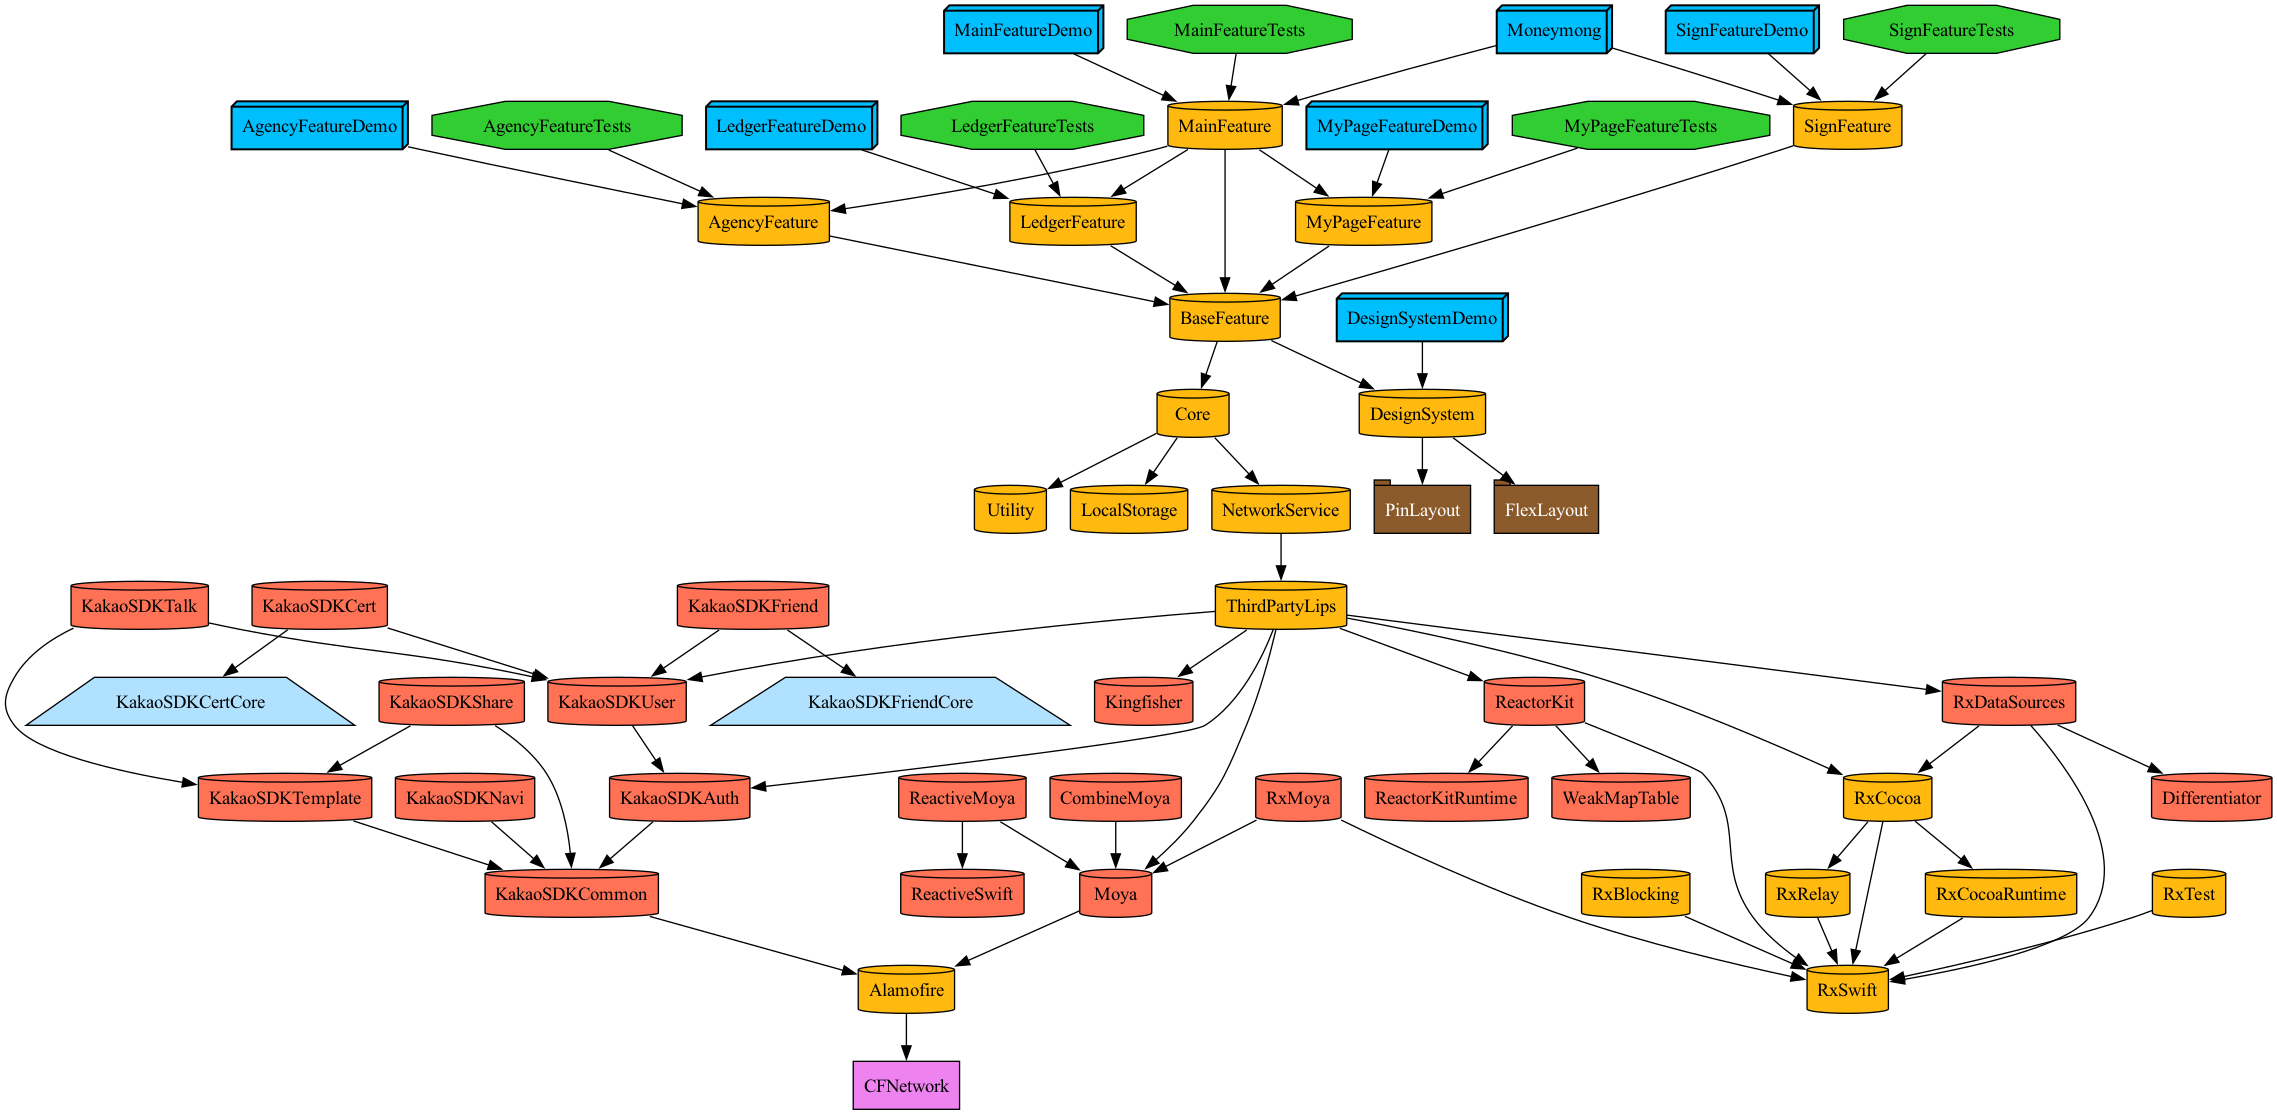
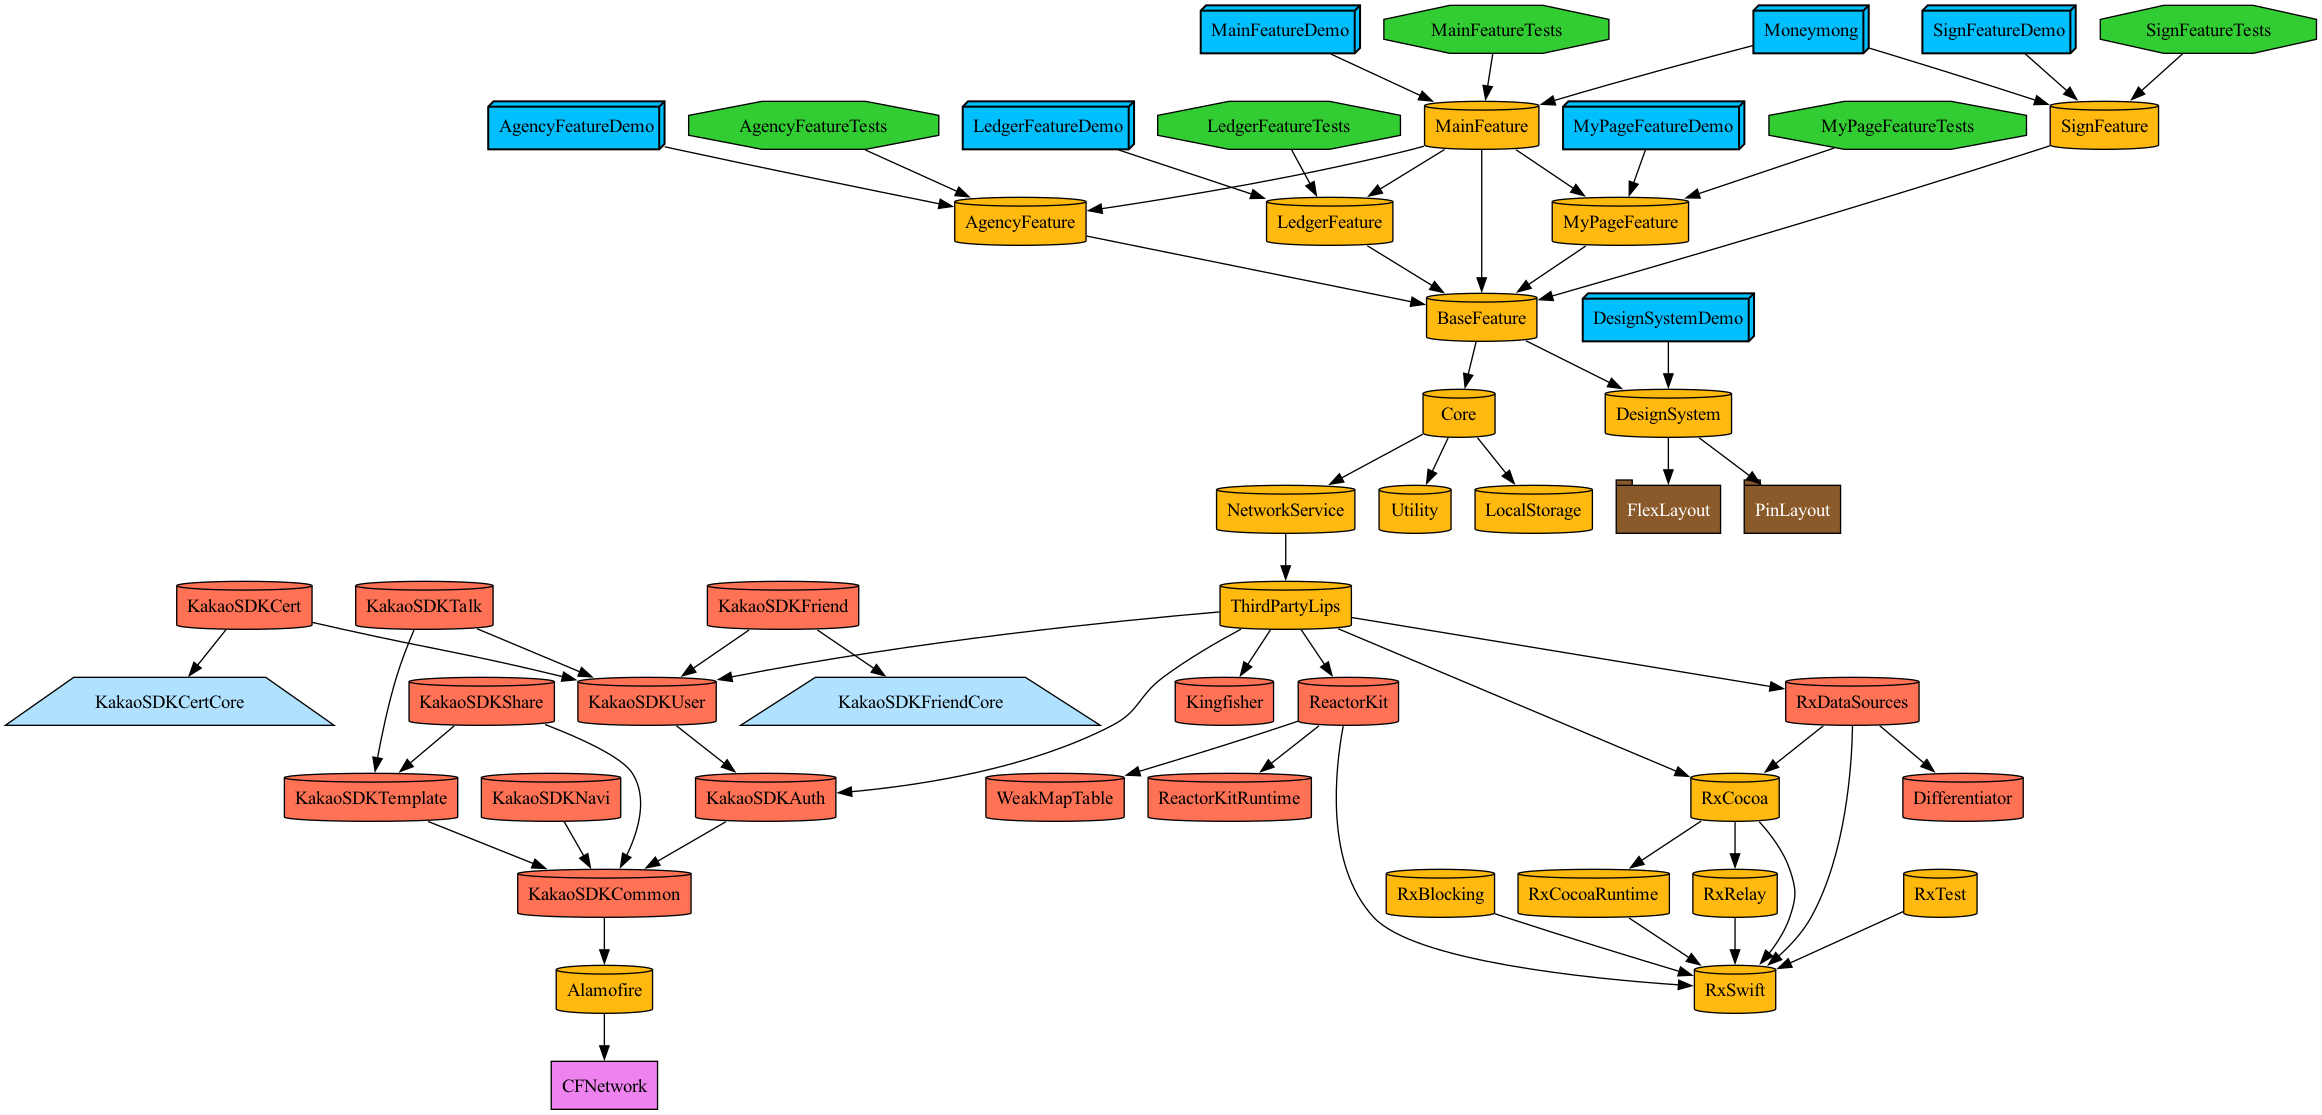
feat: Moya -> Alamofire 대체및 적용
(cherry picked from commit 4c379efed419bace5495fcf24f695d3409dfb195)

# Conflicts:
#	Projects/Core/Network/Sources/Moya+.swift

diff --git a/Projects/Core/Network/Sources/Common/TargetType.swift b/Projects/Core/Network/Sources/Common/TargetType.swift
@@ -1,0 +1,55 @@
+import Foundation
+
+import Alamofire
+
+public enum HTTPTask {
+  case plain
+  case requestJSONEncodable(Encodable)
+  case upload(MultipartFormData)
+}
+
+public protocol TargetType: URLRequestConvertible {
+  var baseURL: URL? { get }
+  var path: String { get }
+  var method: HTTPMethod { get }
+  var task: HTTPTask { get }
+  var headers: [String: String]? { get }
+}
+
+extension TargetType {
+  func asURLRequest() throws -> URLRequest {
+    guard let encodedPath = path
+      .addingPercentEncoding(withAllowedCharacters: CharacterSet.urlQueryAllowed)
+    else {
+      debugPrint("잘못된 URL")
+      let urlError = AFError.createURLRequestFailed(error: URLError(.badURL))
+      throw MoneyMongError.networkError(AFerror: urlError)
+    }
+
+    guard let fullURL = baseURL?
+      .appendingPathComponent(encodedPath)
+      .absoluteString
+      .removingPercentEncoding
+    else {
+      debugPrint("잘못된 URL")
+      let urlError = AFError.createURLRequestFailed(error: URLError(.badURL))
+      throw MoneyMongError.networkError(AFerror: urlError)
+    }
+
+    var urlRequest = try URLRequest(url: fullURL, method: method)
+    urlRequest.allHTTPHeaderFields = headers
+
+    switch task {
+    case .plain:
+      break
+
+    case let .requestJSONEncodable(params):
+      urlRequest.httpBody = try! JSONEncoder().encode(params)
+
+    case let .upload(multipartFormData):
+      break
+    }
+
+    return urlRequest
+  }
+}

diff --git a/Projects/Core/Network/Sources/APIs/SignAPI/Repository/SignRepository.swift b/Projects/Core/Network/Sources/APIs/SignAPI/Repository/SignRepository.swift
@@ -1,0 +1,22 @@
+import Foundation
+import Alamofire
+
+public protocol SignRepositoryInterface {
+  func sign(provider: String, accessToken: String) async throws -> SignInfo
+}
+
+public final class SignRepository: SignRepositoryInterface {
+  private let networkManager: NetworkManagerInterfacae
+
+  public init(networkManager: NetworkManagerInterfacae = NetworkManager()) {
+    self.networkManager = networkManager
+  }
+
+  public func sign(provider: String, accessToken: String) async throws -> SignInfo {
+    let request = SignRequestDTO(provider: provider, accessToken: accessToken)
+    let targetType = SignAPI.sign(request)
+    let dto = try await networkManager.request(target: targetType, of: GenericResponse<SignResponseDTO>.self)
+
+    return dto.toEntity
+  }
+}

diff --git a/Projects/Core/Network/Sources/APIs/SignAPI/ResponseDTO/SignResponseDTO.swift b/Projects/Core/Network/Sources/APIs/SignAPI/ResponseDTO/SignResponseDTO.swift
@@ -1,0 +1,22 @@
+public struct SignResponseDTO: Responsable {
+  public let accessToken: String?
+  public let refreshToken: String?
+  public let loginSuccess: Bool?
+  public let schoolInfoExist: Bool?
+
+  public init(accessToken: String?, refreshToken: String?, loginSuccess: Bool?, schoolInfoExist: Bool?) {
+    self.accessToken = accessToken
+    self.refreshToken = refreshToken
+    self.loginSuccess = loginSuccess
+    self.schoolInfoExist = schoolInfoExist
+  }
+
+  public var toEntity: SignInfo {
+    .init(
+      accessToken: accessToken ?? "",
+      refreshToken: refreshToken ?? "",
+      loginSuccess: loginSuccess ?? false,
+      schoolInfoExist: schoolInfoExist ?? false
+    )
+  }
+}

diff --git a/Projects/Core/Network/Sources/Common/NetworkManager.swift b/Projects/Core/Network/Sources/Common/NetworkManager.swift
@@ -1,0 +1,26 @@
+import Foundation
+
+import Alamofire
+
+public protocol NetworkManagerInterfacae {
+  func request<DTO: Responsable>(target: TargetType, of type: DTO.Type) async throws -> DTO
+}
+
+public final class NetworkManager: NetworkManagerInterfacae {
+
+  public init() {}
+
+  public func request<DTO: Responsable>(target: TargetType, of type: DTO.Type) async throws -> DTO {
+    let dataResponse = await AF.request(target)
+      .serializingData()
+      .response
+
+    switch dataResponse.result {
+    case let .success(data):
+      let result = try JSONDecoder().decode(type, from: data)
+      return result
+    case let .failure(error):
+      throw error
+    }
+  }
+}

diff --git a/Projects/Core/Network/Sources/APIs/SignAPI/Repository/SignAPI.swift b/Projects/Core/Network/Sources/APIs/SignAPI/Repository/SignAPI.swift
@@ -1,0 +1,35 @@
+import Foundation
+import Alamofire
+
+enum SignAPI {
+  case sign(SignRequestDTO)
+}
+
+extension SignAPI: TargetType {
+  var baseURL: URL? {
+    return try? "https://dev.moneymong.site/".asURL()
+  }
+
+  var path: String {
+    switch self {
+    case .sign: return "api/v1/users"
+    }
+  }
+
+  var method: HTTPMethod {
+    return .post
+  }
+
+  var task: HTTPTask {
+    switch self {
+    case .sign(let requst):
+      return .requestJSONEncodable(requst)
+    }
+  }
+
+  public var headers: [String: String]? {
+    return [
+      "Content-Type": "application/json;charset=UTF-8"
+    ]
+  }
+}

diff --git a/Projects/Core/Network/Sources/Common/Error.swift b/Projects/Core/Network/Sources/Common/Error.swift
@@ -1,15 +1,15 @@
 import Foundation
-import Moya
+import Alamofire
 
 public enum MoneyMongError: LocalizedError {
-  case networkError(moyaError: MoyaError)
+  case networkError(AFerror: AFError)
   case serverError(errorMessage: String)
   case unknown(String? = nil)
 
   public var errorDescription: String? {
     switch self {
-    case .networkError(let moyaError):
-      return moyaError.errorDescription
+    case .networkError(let AFerror):
+      return AFerror.errorDescription
     case .serverError(let errorMessage):
       return errorMessage
     case .unknown(let errorDescription):

diff --git a/Projects/Feature/Sign/Sources/Scene/DIContainer/SignDIContainer.swift b/Projects/Feature/Sign/Sources/Scene/DIContainer/SignDIContainer.swift
@@ -21,11 +21,11 @@ public final class SignDIContainer {
 
   func login(with coordinator: SignCoordinator) -> LoginVC {
     let vc = LoginVC()
-//    vc.reactor = LoginReactor(
-//      kakaoAuthManager: kakaoAuthManager,
-//      signRepository: signRepository
-//    )
-//    vc.coordinator = coordinator
+    vc.reactor = LoginReactor(
+      kakaoAuthManager: kakaoAuthManager,
+      signRepository: signRepository
+    )
+    vc.coordinator = coordinator
     return vc
   }
 }

diff --git a/Tuist/Dependencies.swift b/Tuist/Dependencies.swift
@@ -7,8 +7,8 @@ let dependencies = Dependencies(
       requirement: .upToNextMajor(from: "3.2.0")
     ),
     .remote(
-      url: "https://github.com/Moya/Moya",
-      requirement: .upToNextMajor(from: "15.0.0")
+      url: "https://github.com/Alamofire/Alamofire",
+      requirement: .upToNextMajor(from: "5.9.1")
     ),
     .remote(
       url: "https://github.com/onevcat/Kingfisher",

diff --git a/Projects/Core/Network/Project.swift b/Projects/Core/Network/Project.swift
@@ -15,7 +15,7 @@ let project = Project(
       deploymentTarget: .iOS(targetVersion: "15.0", devices: .iphone),
       sources: ["Sources/**"],
       dependencies: [
-        .project(target: "ThirdPartyLips", path: .relativeToRoot("Projects/Shared/ThirdPartyLips"))
+        .project(target: "ThirdPartyLips", path: .relativeToRoot("Projects/Shared/ThirdPartyLips")),
       ]
     )
   ]

diff --git a/Projects/Shared/ThirdPartyLips/Project.swift b/Projects/Shared/ThirdPartyLips/Project.swift
@@ -19,7 +19,7 @@ let project = Project(
         .external(name: "Kingfisher"),
         .external(name: "RxCocoa"),
         .external(name: "RxDataSources"),
-        .external(name: "Moya"),
+        .external(name: "Alamofire"),
         .external(name: "KakaoSDKAuth"),
         .external(name: "KakaoSDKUser")
       ]

diff --git a/Projects/Core/Network/Sources/Common/GenericResponse.swift b/Projects/Core/Network/Sources/Common/GenericResponse.swift
@@ -1,0 +1,15 @@
+struct GenericResponse<T: Responsable> {
+  let data: T
+}
+
+extension GenericResponse: Responsable {
+  public var toEntity: T.Entity {
+    return data.toEntity
+  }
+}
+
+public protocol Responsable: Decodable {
+  associatedtype Entity
+
+  var toEntity: Entity { get }
+}

diff --git a/Projects/Core/Network/Sources/APIs/SignAPI/Entity/SignInfo.swift b/Projects/Core/Network/Sources/APIs/SignAPI/Entity/SignInfo.swift
@@ -1,0 +1,6 @@
+public struct SignInfo {
+  public let accessToken: String
+  public let refreshToken: String
+  public let loginSuccess: Bool
+  public let schoolInfoExist: Bool
+}
